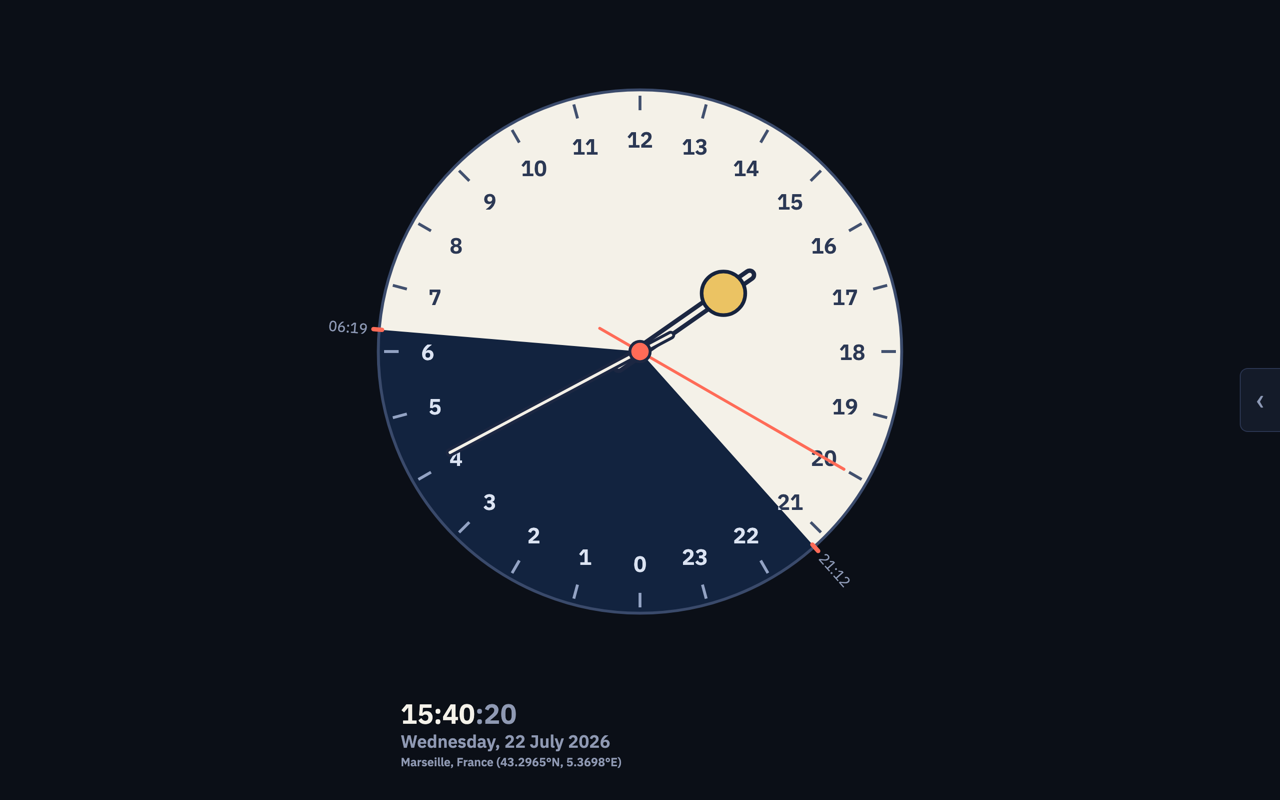
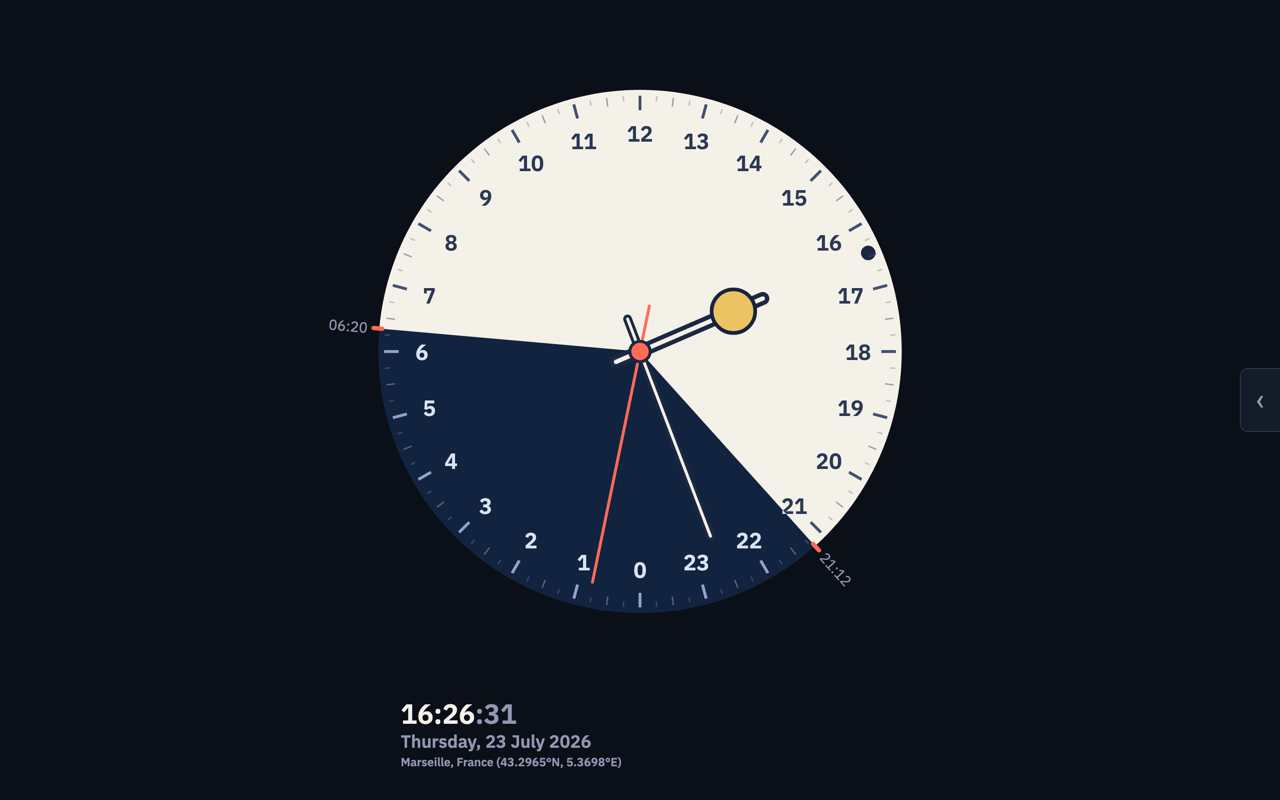
release 1.6.0 prep

diff --git a/clock-extension/newtab.html b/clock-extension/newtab.html
@@ -188,7 +188,7 @@
       </fieldset>
     </div>
 
-    <p class="footnote">The clock shows the local time at the selected place. For custom coordinates the timezone is estimated from the longitude (whole hours, no daylight-saving adjustment).</p>
+    <p class="footnote">The clock shows the local time at the selected place. For custom coordinates the timezone is looked up from the coordinates; if that fails it is estimated from the longitude (whole hours, no daylight-saving adjustment).</p>
   </aside>
 
   <script src="js/suncalc.js"></script>

diff --git a/clock-extension/README.md b/clock-extension/README.md
@@ -28,26 +28,34 @@ no data.
 ## Use
 
 - Click the chevron on the right edge to open the settings sidebar.
-- Pick a place from the dropdown — 115 major cities worldwide, with a
+- Pick a place from the dropdown — 123 major cities worldwide, with a
   Favorites group pinned at the top (★ button adds/removes the selected
   city) — or enter latitude (−90…90) and longitude (−180…180) manually;
   the location auto-saves and the face shades to today's daylight span, with
   sunrise/sunset marked on the rim.
 - The clock shows the local time at the selected location. Dropdown places
-  use their exact IANA timezone (DST-aware); custom coordinates estimate the
-  timezone from longitude (whole hours, no DST).
+  use their exact IANA timezone (DST-aware); for custom coordinates the zone is
+  looked up from the coordinates themselves, falling back to an estimate from
+  the longitude (whole hours, no DST) only if that lookup fails.
 - With no location saved the face renders in a neutral single color.
 - Polar day/night locations render a fully light/dark face with a note in the
   sidebar.
 - A sun or moon rides the hour hand: the sun is cut off by the edge of the
   night slice as it sets, and the moon is revealed by it in turn, so the icon
-  always matches the region of the face the hand is in.
+  always matches the region of the face the hand is in. The moon's lit face is
+  shaped to the real phase for the day, crescent through full and back.
+- The current time is also marked on the hour-tick ring by a disc that flips
+  between light and dark as it passes sunrise and sunset.
 - Options: dial orientation — "12 noon at top" (default), "Day & night
   centered", which rotates the whole dial (numerals, shading, hour hand) so
   the day and night slices mirror across the vertical axis, or "Louis XIV",
   which centers your waking hours (wake-up and bedtime are entered below the
-  option and drawn as lines on the face); the minute and second hands can each
-  be hidden independently, and a faint 60-minute marker ring can be shown.
+  option and drawn as lines on the face, independently of the orientation);
+  the minute and second hands can each be hidden independently, a faint
+  60-minute marker ring can be shown alongside the minute hand, and the half-
+  and quarter-hour ticks on the hour ring can be turned off to leave just the
+  hours. With the minute hand hidden the hour hand reaches further out, taking
+  the room it no longer has to leave clear.
 
 Sunrise/sunset is computed locally with the vendored [SunCalc](https://github.com/mourner/suncalc)
 library (MIT) — the extension makes no network requests. The interface is set